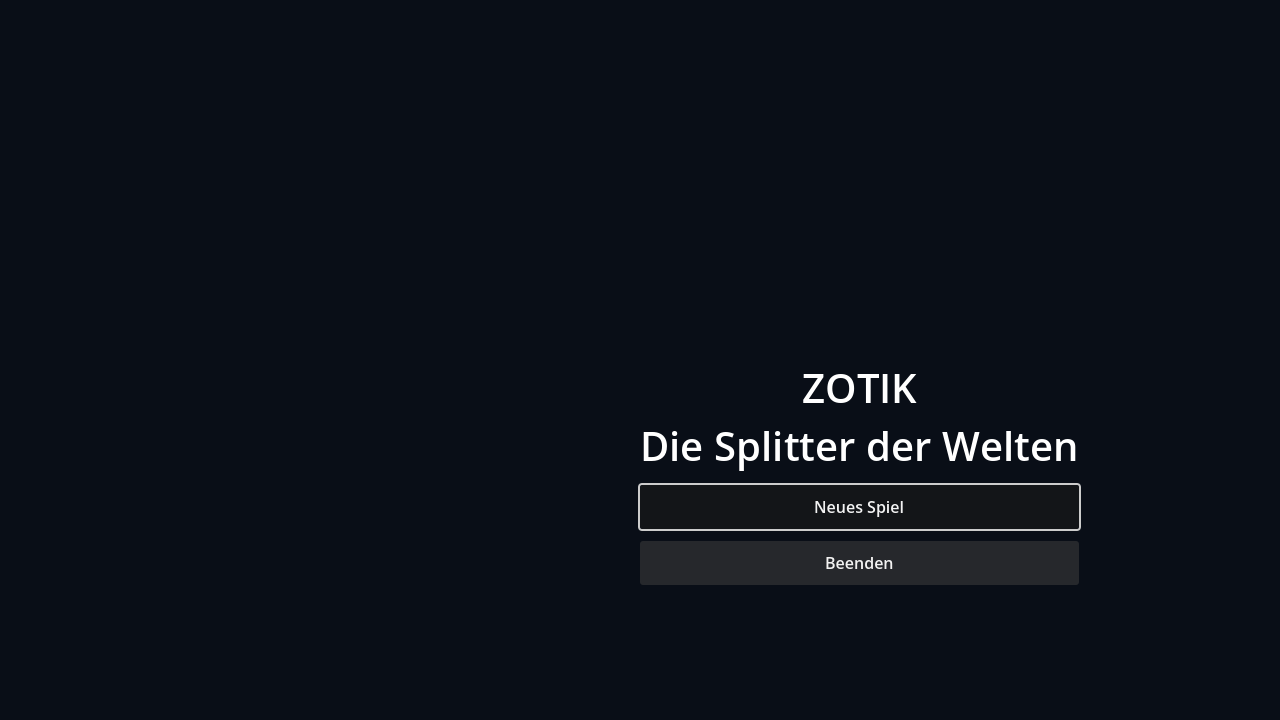
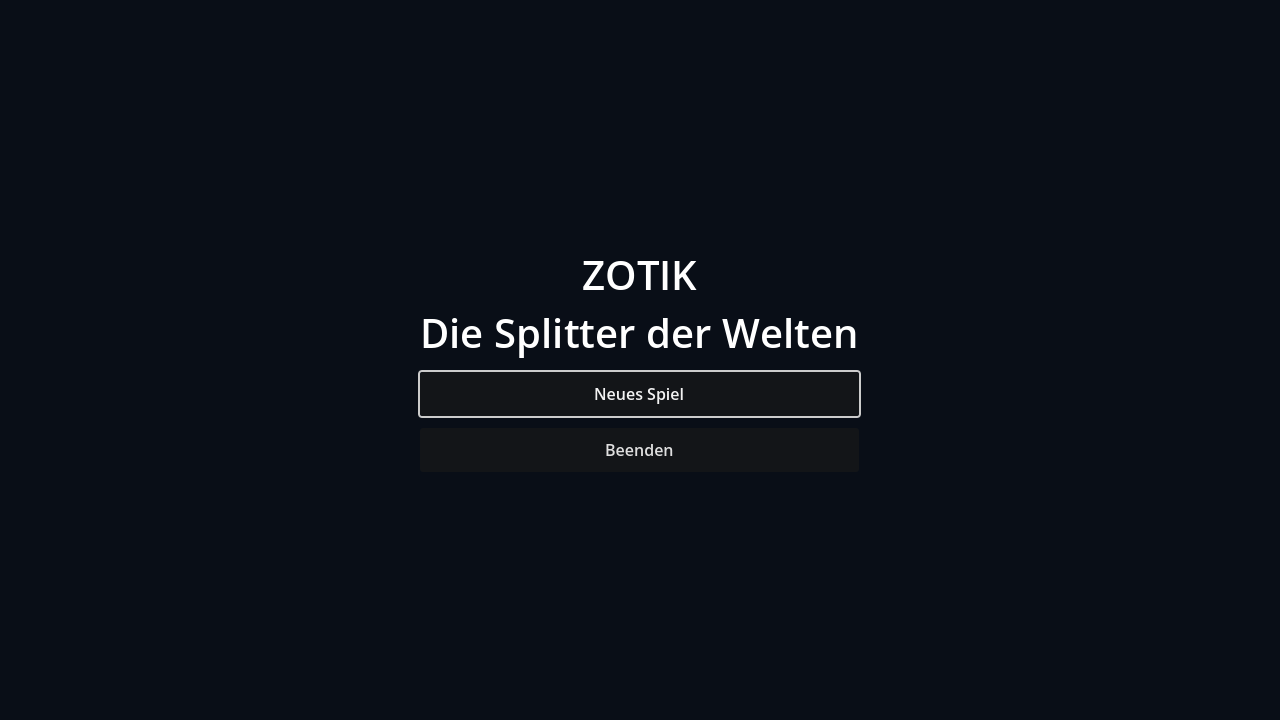
Web fixes: built-in font glyphs, help overlay, title centering
Found by driving the web build in headless Chromium: replace glyphs the
built-in font lacks (shown as boxes on web), beacon arrow as a 3D cone,
controls overlay moved and hidden during dialogues, centred title menu.
New test checks every visible string against the built-in font. README
gains a 'Jetzt spielen' section with download links.

Claude-Session: https://claude.ai/code/session_01D64FBPKosMPWYDNkmQT7wn

diff --git a/docs/MILESTONE_LOG.md b/docs/MILESTONE_LOG.md
@@ -206,3 +206,13 @@ The project owner authorised autonomous work and merging on 2026-10-02. Phase 2 
 - **Test guard:** every autoload in `project.godot` must compile and be instanced. Before this, a broken autoload only showed up as follow-up errors.
 - Tests: `tests/unit/test_p01_playability.gd` (6 tests). Rendered check: `docs/screenshots/04b_village_beacon_on_mira.png`.
 - Level sanity test `tests/unit/test_p02_reachability.gd`: with all gates open, every entity, exit and spawn of every area is reachable on foot from the default spawn. It uses a grid flood fill with the player radius. A mutation check confirmed that it detects a walled-in NPC.
+
+## P2 Builds and web check – PASSED
+- `build` workflow: exports Windows (38 MB), Linux (28 MB) and Web (10 MB) and smoke-tests the Linux build (boot + `CONTENT OK`). Release `phase1-latest` is published on every merge to `main`.
+- GitHub Pages deploy needs a one-time repository setting (Settings → Pages → Source: GitHub Actions). The workflow token is not allowed to enable it ("Resource not accessible by integration").
+- The web build from the release was loaded in headless Chromium (WebGL2 via SwiftShader). Booting, content validation, New Game, the intro and walking into the village all worked.
+- That run found issues that only appear without system fonts or in real layouts. All are fixed:
+  - ★ ← → ✓ ▼ glyphs showed as boxes. They were replaced, and the beacon arrow is now a 3D cone.
+  - The controls overlay overlapped the dialogue box. It now sits under the HP bar and hides during dialogues.
+  - The title menu was off-centre.
+- New test `tests/unit/test_p03_glyphs.gd`: every string literal in game scripts and every data string must render with the built-in font. A mutation check confirmed it fails on "★".

diff --git a/README.md b/README.md
@@ -1,5 +1,14 @@
 # ZOTIK – Die Splitter der Welten
 
+## Jetzt spielen (Phase 1 – Lunaris)
+- **Windows:** [ZOTIK-windows-x86_64.zip](https://github.com/ricorewioriginal-collab/zotik/releases/download/phase1-latest/ZOTIK-windows-x86_64.zip) herunterladen, entpacken und `ZOTIK.exe` starten. Windows SmartScreen warnt eventuell, weil die Datei nicht signiert ist: „Weitere Informationen → Trotzdem ausführen“.
+- **Linux:** [ZOTIK-linux-x86_64.zip](https://github.com/ricorewioriginal-collab/zotik/releases/download/phase1-latest/ZOTIK-linux-x86_64.zip), dann `ZOTIK.x86_64` starten.
+- **Browser:** Die Web-Version wird automatisch auf GitHub Pages veröffentlicht, sobald Pages einmalig aktiviert ist: *Settings → Pages → Build and deployment → Source: GitHub Actions*. Danach läuft sie unter `https://ricorewioriginal-collab.github.io/zotik/`.
+- Steuerung: F1 im Spiel blendet die Tastenhilfe ein und aus (Details in `game/zotik/README.md`).
+- Alle Grafiken, Sounds und Dialogtexte sind Platzhalter.
+
+Jeder Merge auf `main` baut die Downloads neu (Release `phase1-latest`).
+
 Gesamter bisher ausgearbeiteter Projektstand.
 
 ## Wichtig
